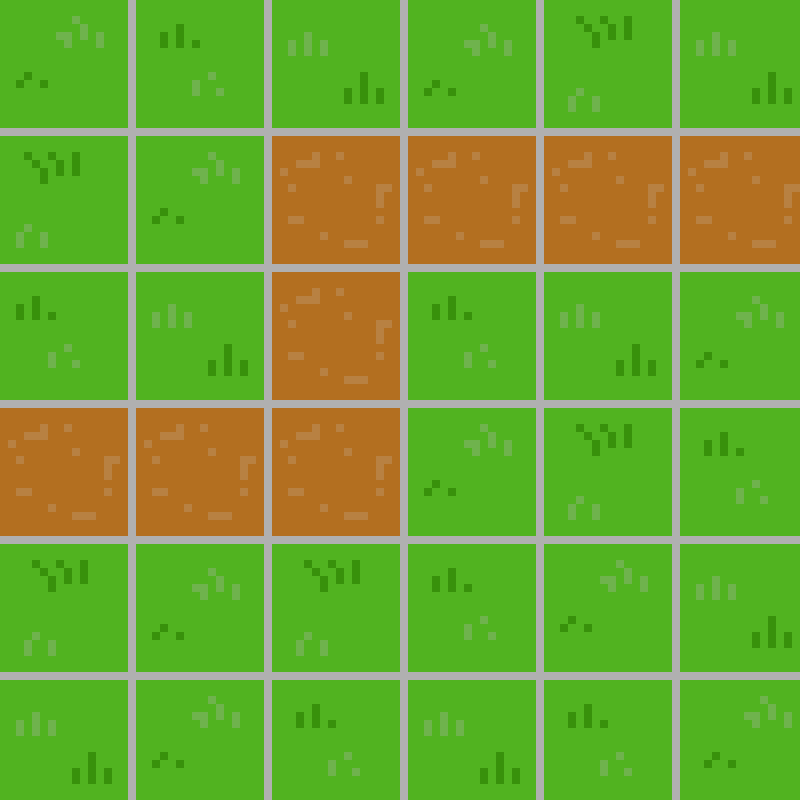
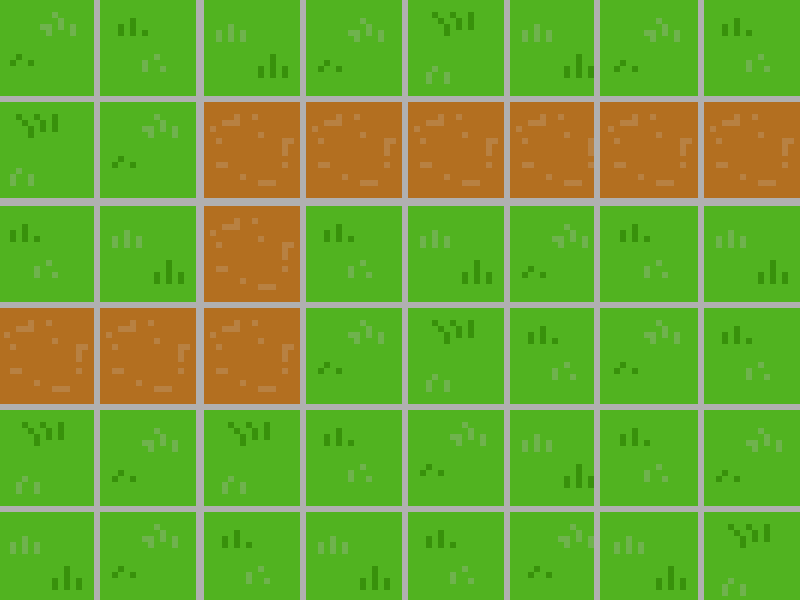
changed map

diff --git a/ISU/src/Start.java b/ISU/src/Start.java
@@ -41,9 +41,6 @@ public class Start extends JPanel implements Runnable, MouseListener {
     JPanel myPanel;
     JPanel buttons;
 
-//    ImageIcon bgdImage;
-//    String background = "media/firstMap.png";
-
     GameEntity enemy;
     
     String picture = "towerDefence";
@@ -120,8 +117,9 @@ public class Start extends JPanel implements Runnable, MouseListener {
 
         for (int i = 0; i < enemyCount; i++) {
             if (enemiesList[i] != null) {
-                enemiesList[i].x += 2;
-                if (enemiesList[i].x > 215 && enemiesList[i].x < 500) {
+                if (enemiesList[i].x <= 200 || enemiesList[i].y <= 200) {
+                    enemiesList[i].x += 2;
+                } else {
                     enemiesList[i].y -= 1;
                 }
             }
@@ -262,7 +260,7 @@ public class Start extends JPanel implements Runnable, MouseListener {
 	    	
 	    	else if (x >= 331 && x <= 467 && y >= 194 && y <= 233) { // Start button
 	    		System.out.println ("START");
-	    		picture = "mapOne";
+	    		picture = "firstMapGrid";
                 map = 1;
 	    		startScreen = false;
                 inGame = true;
@@ -301,7 +299,7 @@ public class Start extends JPanel implements Runnable, MouseListener {
 
     public static void main (String[] args) {
         frame = new JFrame ("Tower Defence");
-        frame.setPreferredSize (new Dimension (800, 800));
+        frame.setPreferredSize (new Dimension (800, 600));
         frame.setLocation(0, 0);
 
         Start myPanel = new Start ();
